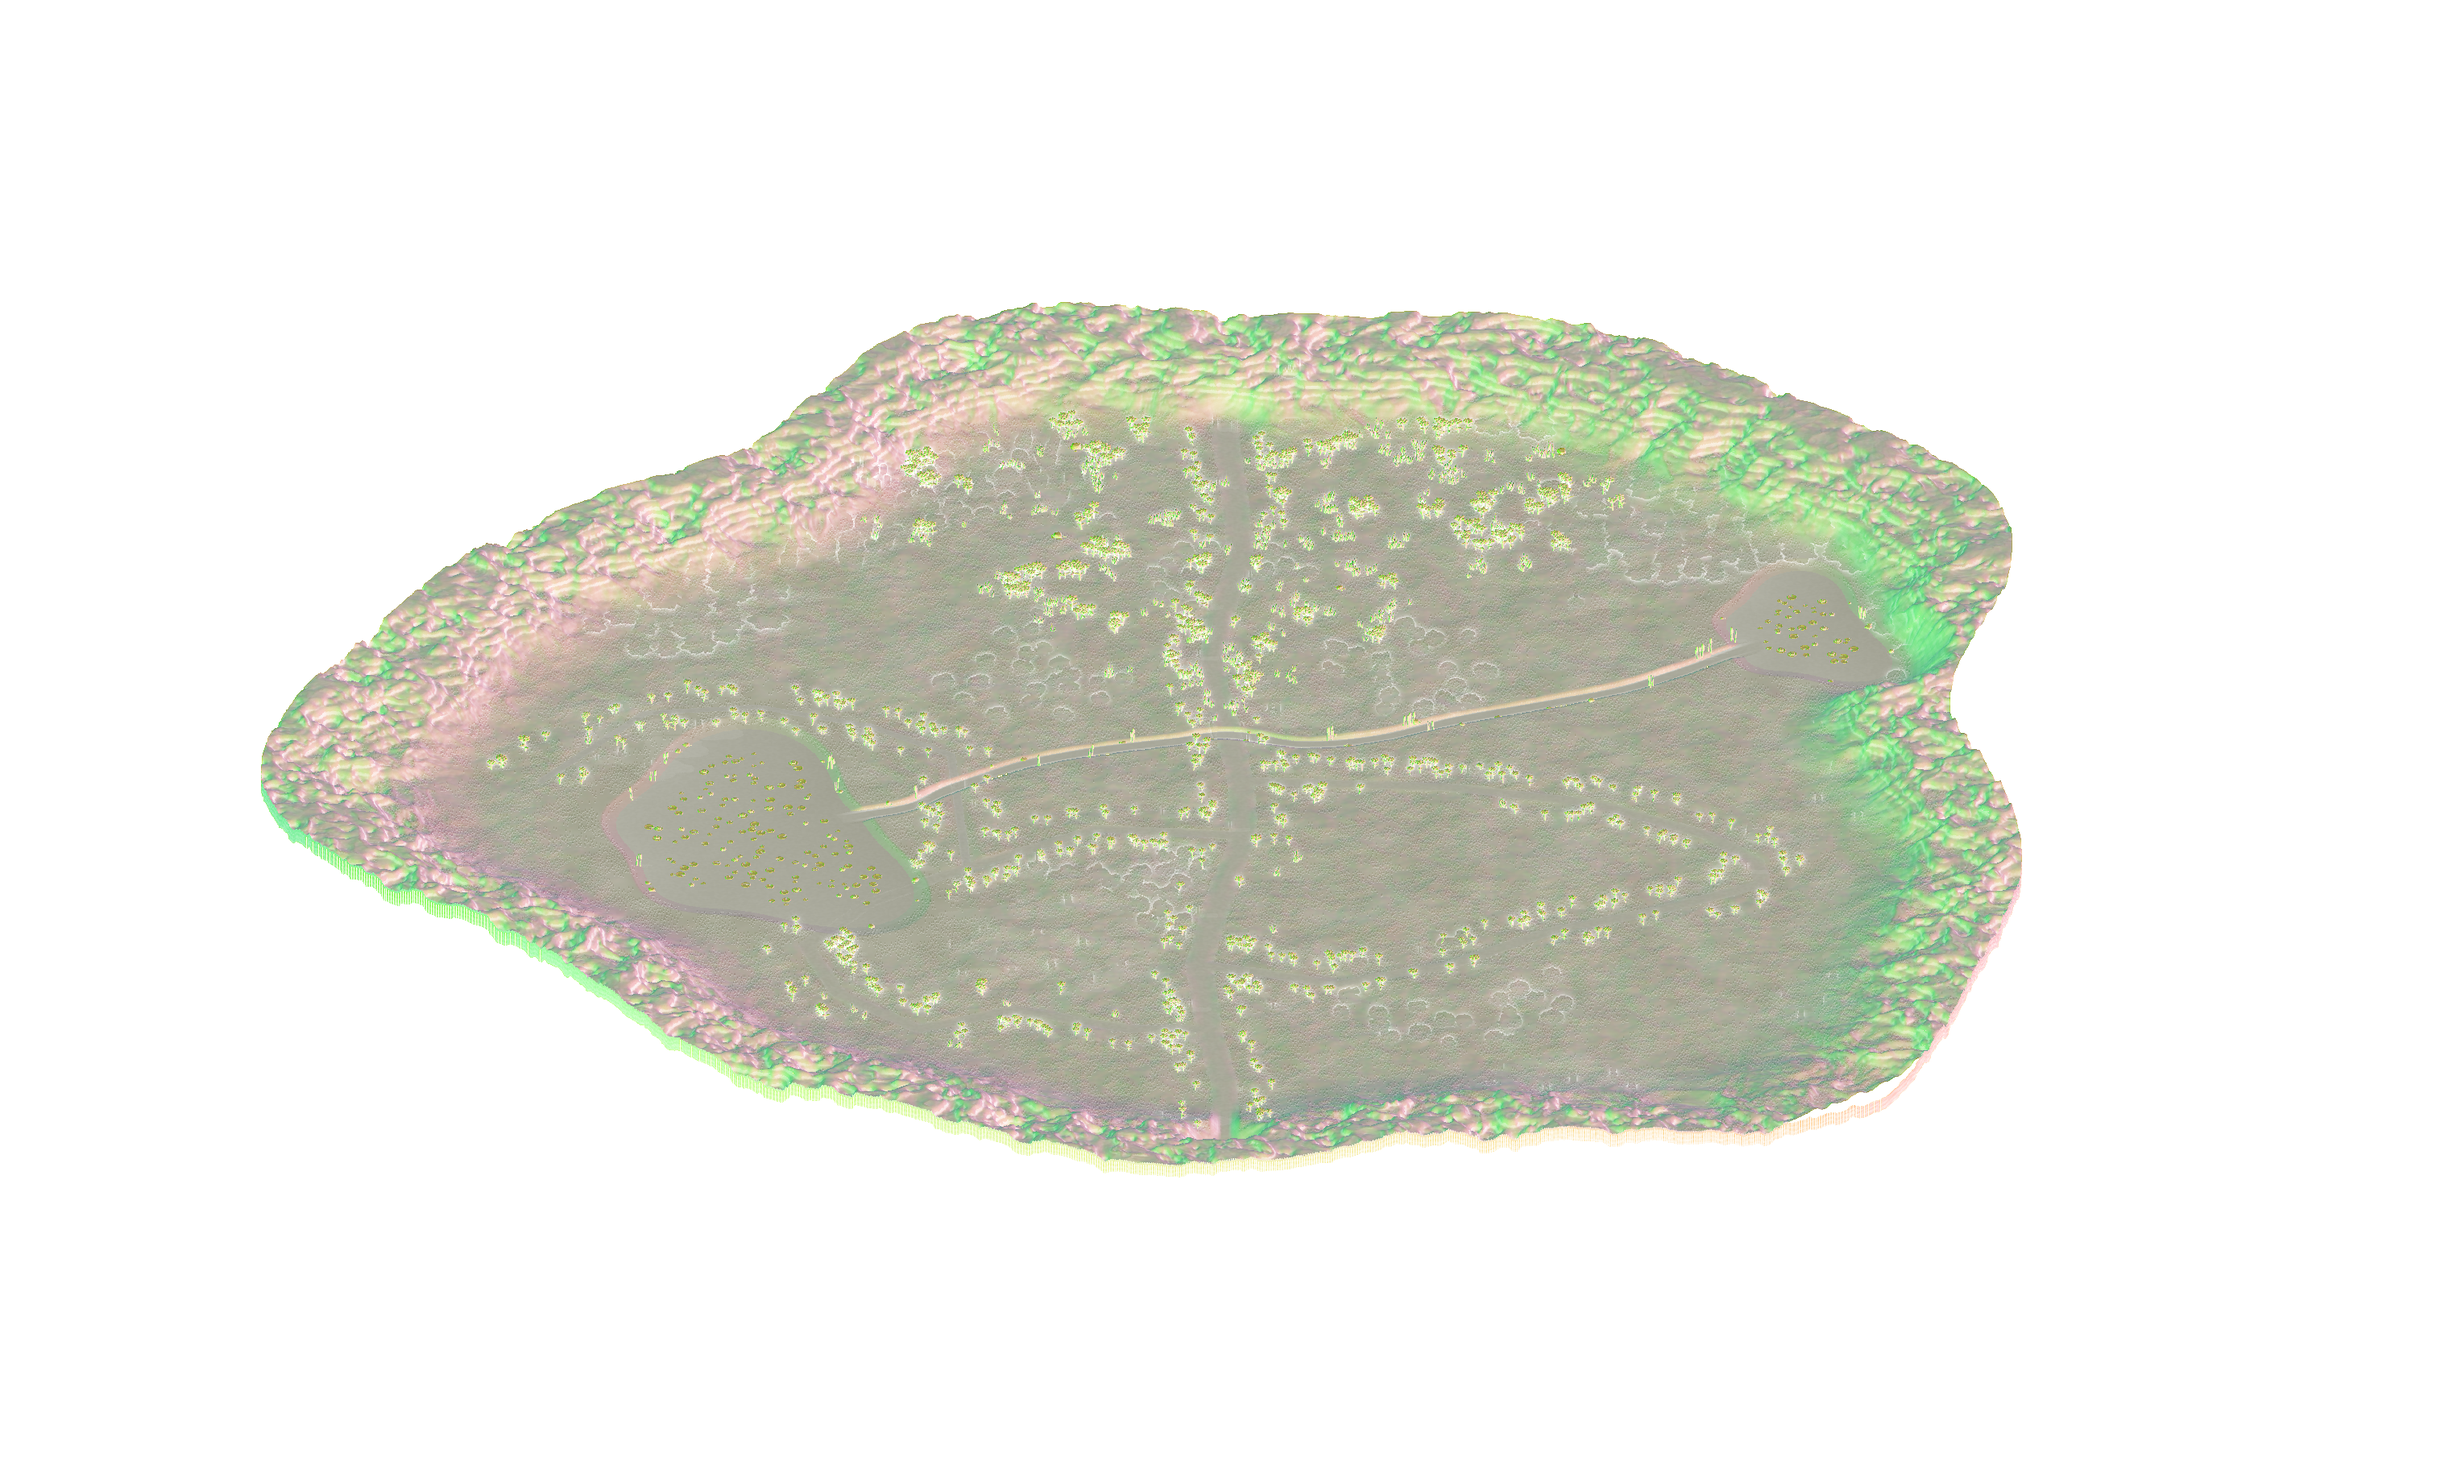
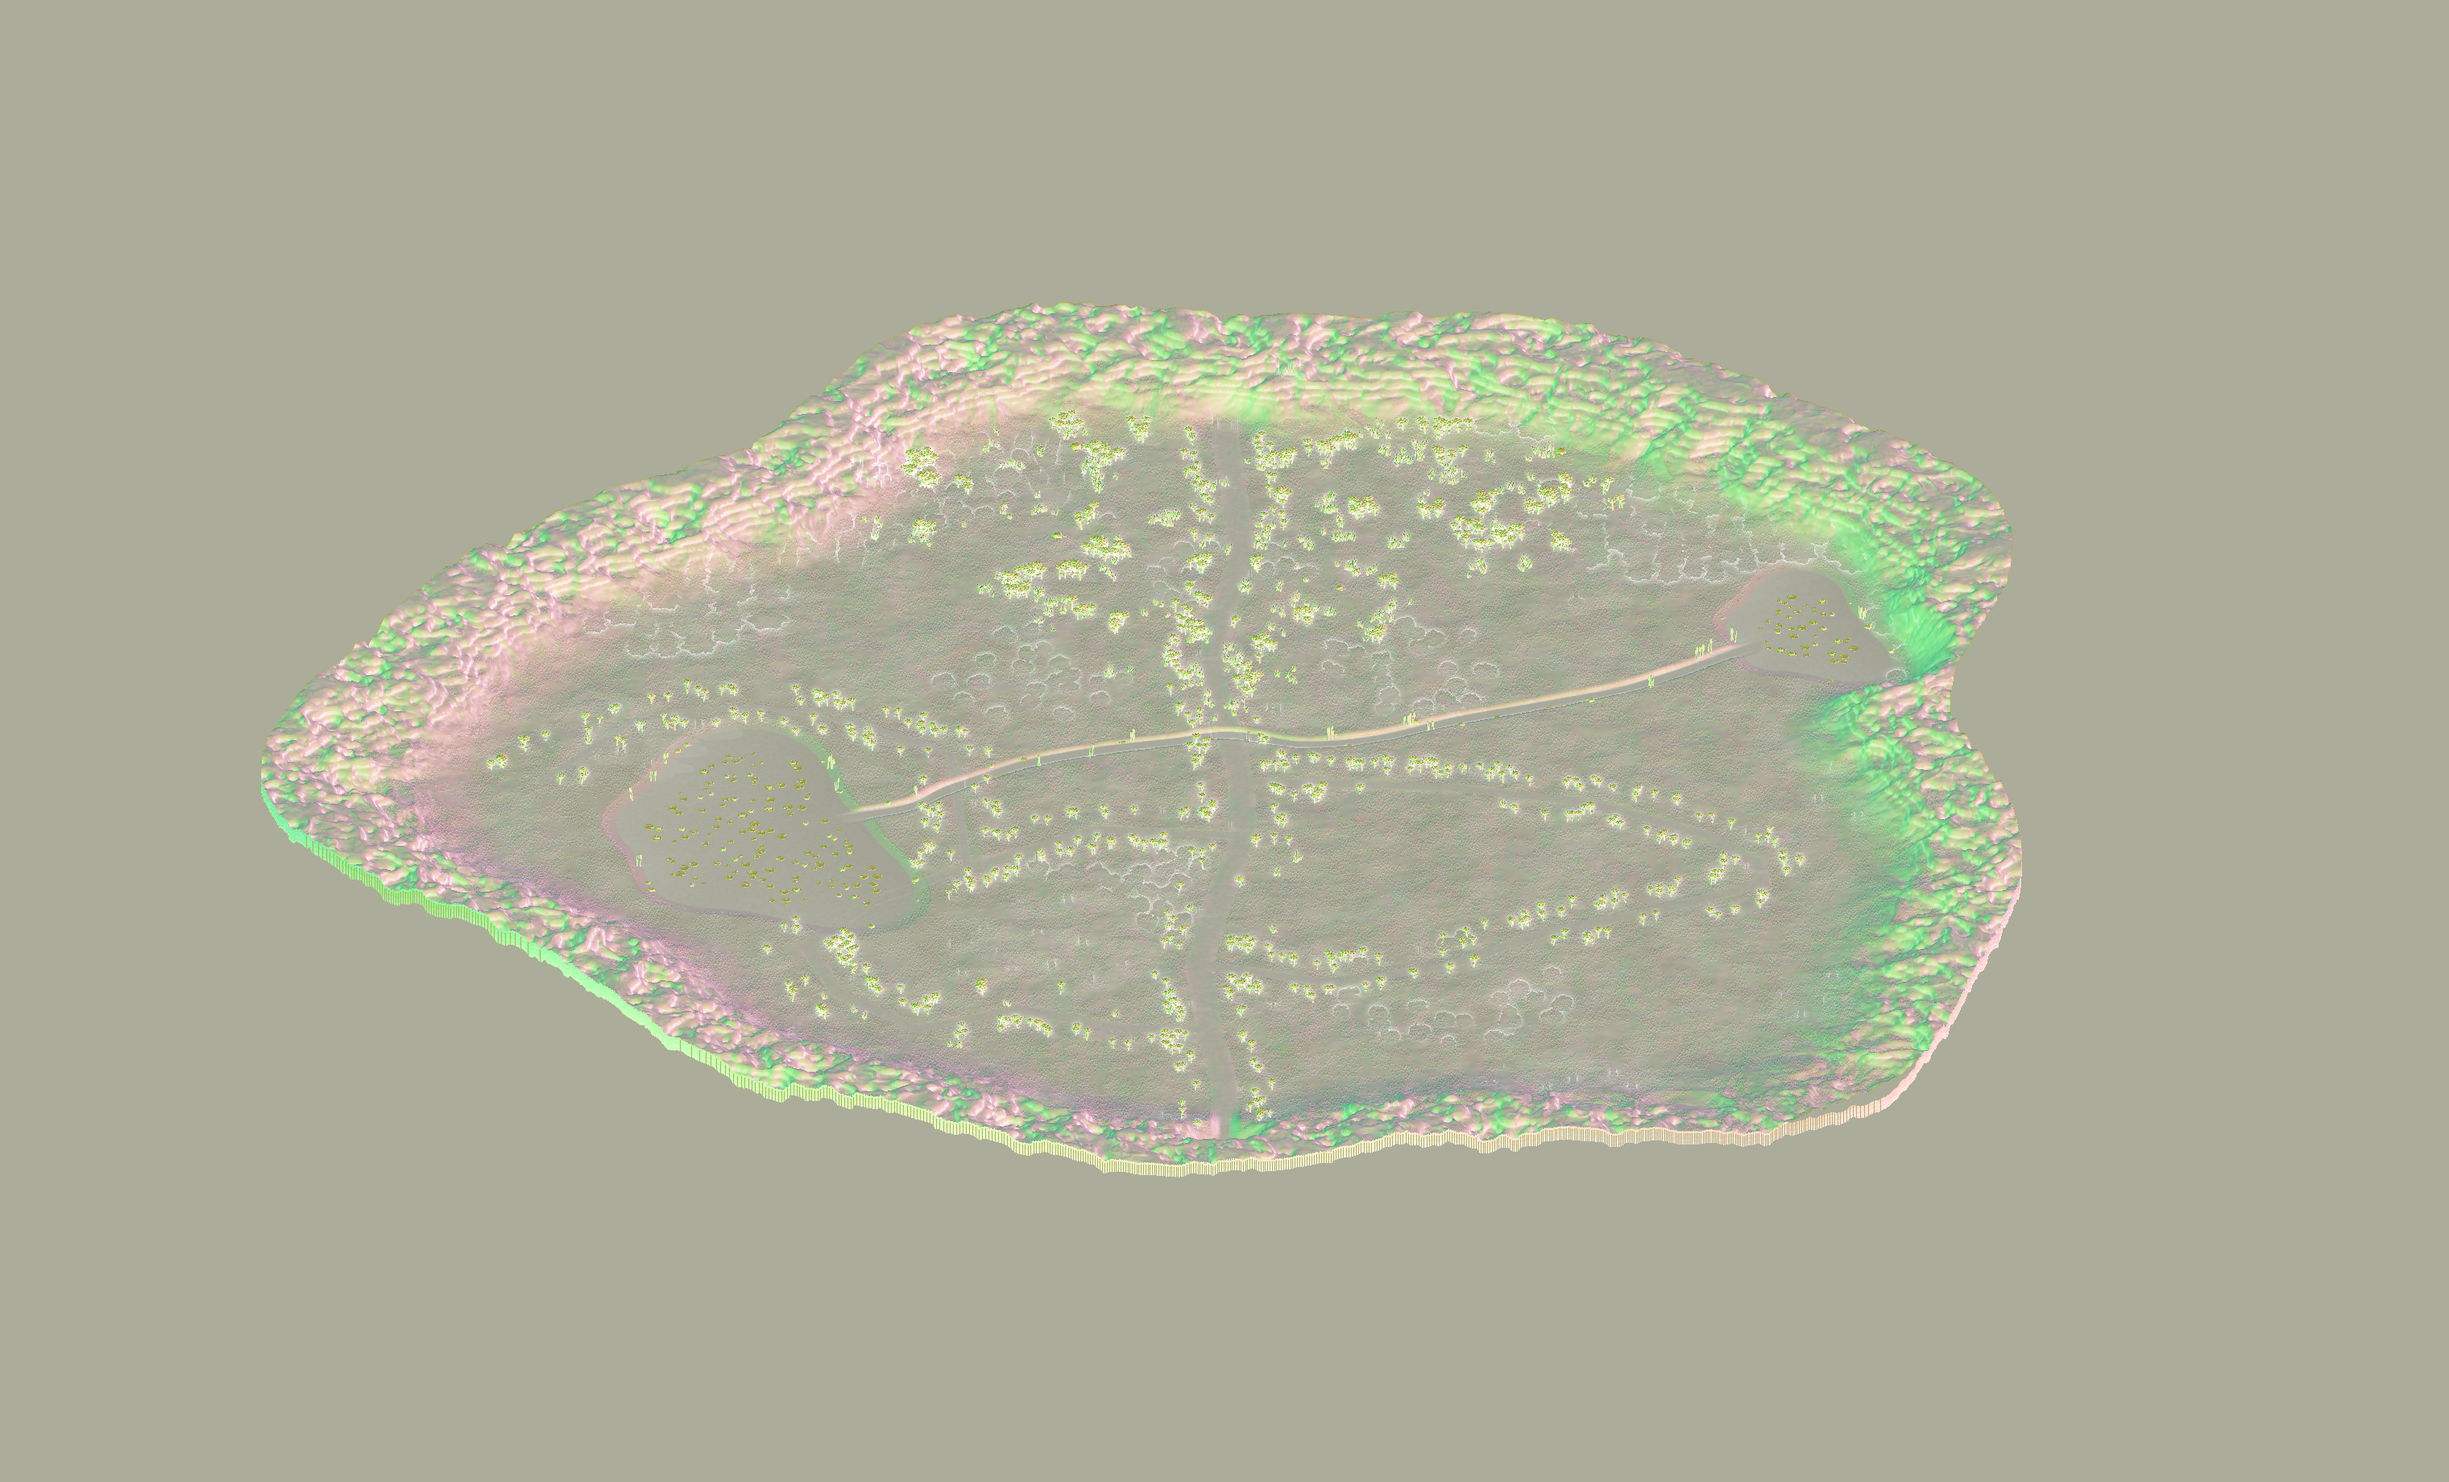
Larkmoor: relight the map edges
The ground's normal and baked-light data only covered the render mask, so
about two thirds of the ground texture (the map's edges) had no material code
and skipped the sun. Those texels were dark and raw. They now take the terrain
ramp, a flat normal and the island's median baked light. The generator applies
the same fill, and test_relight checks a 9x9 grid over the map, corners included.

Claude-Session: https://claude.ai/code/session_01Pmx9dVrNA2z75dizHPXfLL

diff --git a/tools/art/depth_pass.py b/tools/art/depth_pass.py
@@ -76,6 +76,22 @@ def write_relight_data(path, aux, y0, y1, x0, x1, mask):
     Image.fromarray(d).save(path)
 
 
+# Ground texels the scene render never saw (outside its mask) get no material and no baked light, so the runtime
+# relight skipped them and the painted ground showed raw and dark at the map's edges. They take the terrain ramp (code
+# 100), a flat normal and the island's median baked light, so the sun lights them like the rest of the ground.
+UNBAKED_GROUND_CODE, UNBAKED_GROUND_LIGHT = 100, 166
+
+
+def fill_unbaked_ground(path):
+    """Give every ground texel with no material and no baked light a flat terrain value. Idempotent."""
+    from PIL import Image
+    d = np.array(Image.open(path).convert('RGBA'))
+    empty = (d[..., 2] == 0) & (d[..., 3] == 0)
+    d[empty] = [128, 128, UNBAKED_GROUND_CODE, UNBAKED_GROUND_LIGHT]
+    Image.fromarray(d, 'RGBA').save(path)
+    return int(empty.sum())
+
+
 def write_height(path, z, mask):
     """Greyscale world height for AO and shadows: 1..255 inside the scene (z scaled to the scene's own range), 0 outside."""
     from PIL import Image

diff --git a/tools/art/gen_larkmoor.py b/tools/art/gen_larkmoor.py
@@ -1034,6 +1034,7 @@ Image.fromarray(_fg).save(os.path.join(OUT, 'ground_fg.png'))
 
 # ground G-buffer (same contract as gen_meadow3d.py): normal + material + baked light, and world height
 depth_pass.write_relight_data(os.path.join(OUT, 'ground_n.png'), AUX_GND, 0, H - 1, 0, W - 1, id_gnd >= 0)
+depth_pass.fill_unbaked_ground(os.path.join(OUT, 'ground_n.png'))   # the map's edges outside the render mask
 depth_pass.write_height(os.path.join(OUT, 'ground_h.png'), AUX_GND['z'], id_gnd >= 0)
 os.makedirs(os.path.join(OUT, 'sprites'), exist_ok=True); sprites = []
 # ordinary lanterns share one window around their foot: x from -9 to +9, y from -26 to +2 (measured on every lamp at every

diff --git a/changelog.d/larkmoor-edge-relight.patch.md b/changelog.d/larkmoor-edge-relight.patch.md
@@ -1,0 +1,1 @@
+Larkmoor: the map edges get the sun too. Ground outside the scene render was never relit, so the far corners of the map stayed dark and raw; they now light like the rest of the ground.
